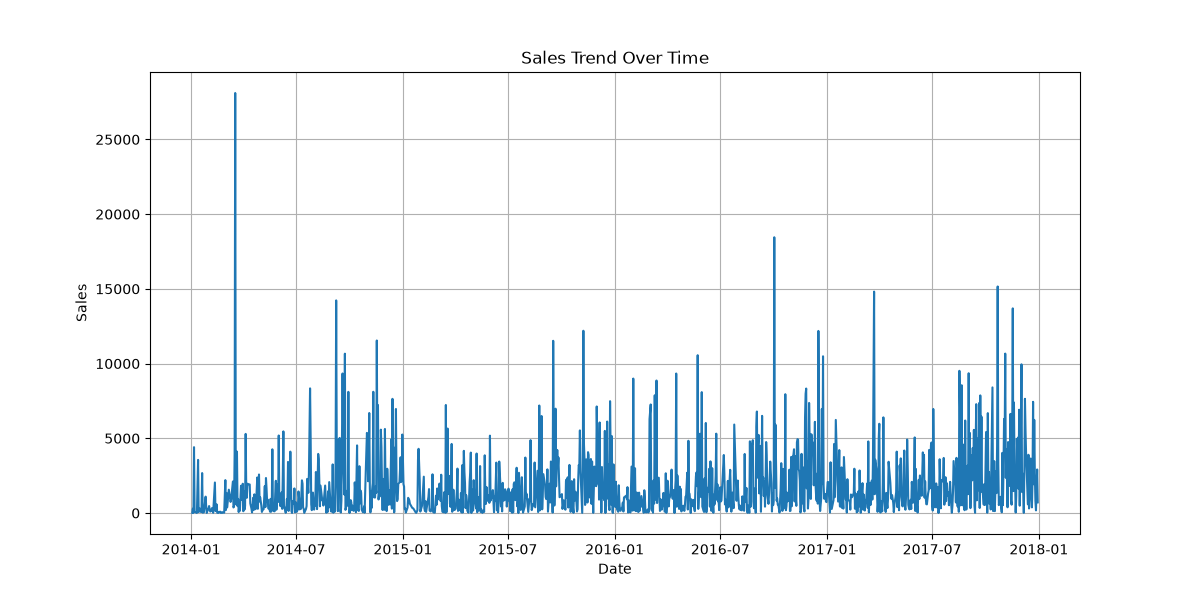
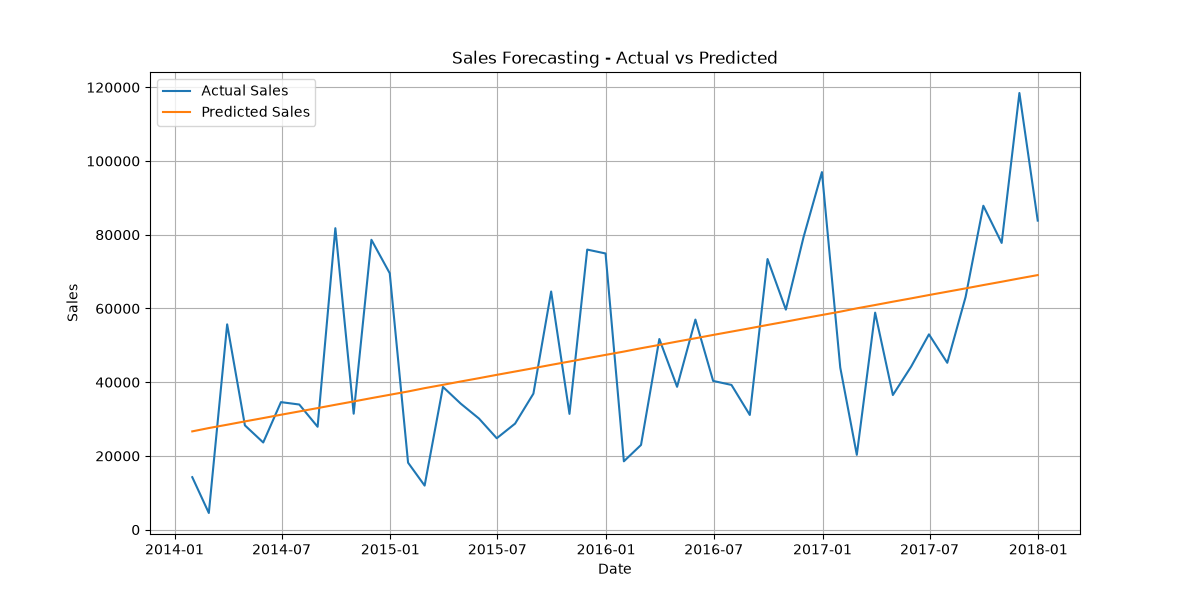
Add files via upload

diff --git a/new_forecast.py b/new_forecast.py
@@ -1,0 +1,76 @@
+import pandas as pd
+import matplotlib.pyplot as plt
+from sklearn.linear_model import LinearRegression
+from sklearn.metrics import mean_absolute_error, mean_squared_error, r2_score
+
+# Load dataset
+df = pd.read_csv("Sample - Superstore.csv", encoding="latin1")
+
+# Convert Order Date to datetime
+df["Order Date"] = pd.to_datetime(df["Order Date"])
+
+# Check missing values
+print("Missing Values:")
+print(df.isnull().sum())
+
+# Sort by date
+df = df.sort_values("Order Date")
+
+# Create monthly sales summary
+monthly_sales = (
+    df.set_index("Order Date")
+      .resample("ME")["Sales"]
+      .sum()
+      .reset_index()
+)
+
+# Create numeric feature
+monthly_sales["Month_Number"] = range(len(monthly_sales))
+
+X = monthly_sales[["Month_Number"]]
+y = monthly_sales["Sales"]
+
+# Train model
+model = LinearRegression()
+model.fit(X, y)
+
+# Predictions
+monthly_sales["Predicted_Sales"] = model.predict(X)
+
+# Evaluation
+mae = mean_absolute_error(y, monthly_sales["Predicted_Sales"])
+mse = mean_squared_error(y, monthly_sales["Predicted_Sales"])
+r2 = r2_score(y, monthly_sales["Predicted_Sales"])
+
+print("\nModel Evaluation")
+print("MAE =", round(mae, 2))
+print("MSE =", round(mse, 2))
+print("R2 Score =", round(r2, 4))
+
+# Plot
+plt.figure(figsize=(12, 6))
+plt.plot(
+    monthly_sales["Order Date"],
+    monthly_sales["Sales"],
+    label="Actual Sales"
+)
+
+plt.plot(
+    monthly_sales["Order Date"],
+    monthly_sales["Predicted_Sales"],
+    label="Predicted Sales"
+)
+
+plt.title("Sales Forecasting - Actual vs Predicted")
+plt.xlabel("Date")
+plt.ylabel("Sales")
+plt.legend()
+plt.grid(True)
+
+# Save graph
+plt.savefig("forecast_graph.png")
+
+# Show graph
+plt.show()
+
+print("\nForecast completed successfully!")